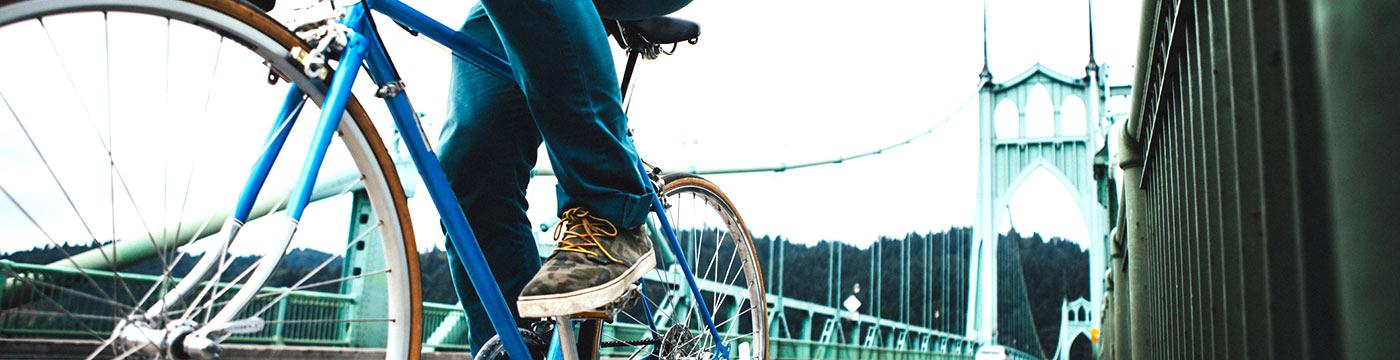
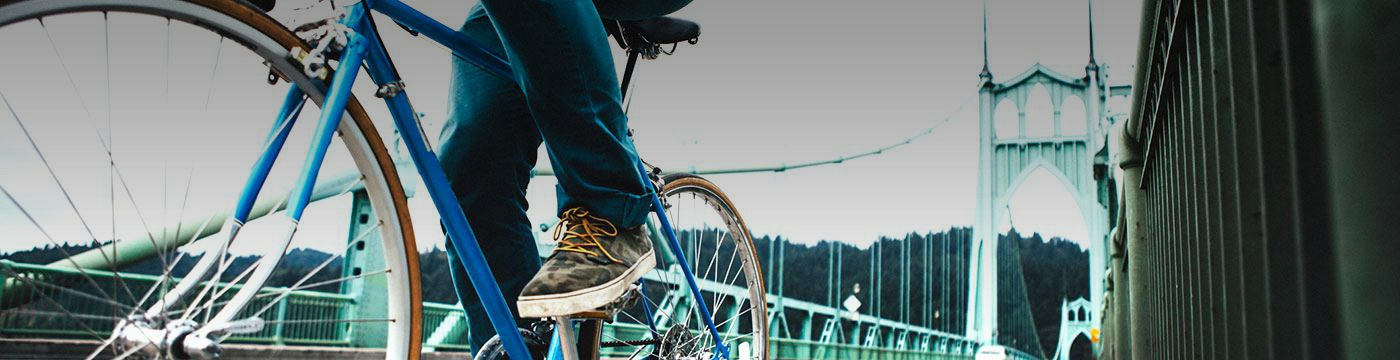
add fonts for main-photo and body, and add margin to ul and li

diff --git a/src/app/main-photo/main-photo.component.css b/src/app/main-photo/main-photo.component.css
@@ -1,18 +1,22 @@
-
+* {
+  border: 1px solid red;
+}
 .bridge {
   background-image:url("./../../assets/img/bridge.jpg");
   width: 100%;
   height: 30vw;
-  -webkit-filter: contrast(.8)saturate(1.2);
-  background: linear-gradient(90, black, 150%);
-
+  -webkit-filter: contrast(1)saturate(1.5);
 }
 
-
-
-h2 {
+#rent {
   text-transform: uppercase;
   color: white;
+  font-size: 6vw;
+  font-weight: lighter;
+  position: absolute;
+  top: 1vh;
+  left: 20vw;
+  /* margin-top: 5vh; */
 }
 ul {
   list-style-type: none;
@@ -20,6 +24,11 @@ ul {
   flex-direction: row;
   justify-content: space-between;
   width: 50vw;
+  color: white;
+  text-transform: uppercase;
+  font-weight: bold;
+  position: relative;
+  top: 50%;
 }
 
 .search {
@@ -29,4 +38,8 @@ ul {
   justify-content: space-between;
   margin-left: 5vw;
   margin-right: 5vw;
+}
+
+li {
+  margin-left: 8%;
 }

diff --git a/src/app/header/header.component.ts b/src/app/header/header.component.ts
@@ -1,12 +1,13 @@
 import { Component, OnInit } from '@angular/core';
 
+
 @Component({
   selector: 'app-header',
   templateUrl: './header.component.html',
   styleUrls: ['./header.component.css']
 })
 export class HeaderComponent implements OnInit {
-  
+
   constructor() { }
 
   ngOnInit() {

diff --git a/src/index.html b/src/index.html
@@ -1,6 +1,7 @@
 <!doctype html>
 <html lang="en">
 <head>
+  <link href="https://fonts.googleapis.com/css?family=Amatic+SC|Muli" rel="stylesheet">
   <meta charset="utf-8">
   <title>CloneAngular</title>
   <base href="/">

diff --git a/src/app/header/header.component.html b/src/app/header/header.component.html
@@ -1,5 +1,5 @@
 <div class="header">
   <p>  Menu <p>
-  <h2> Apartment.com </h2>
+  <img id="logo" src="/Users/Guest/desktop/clone-angular/src/assets/img/logo.png" alt="logo">
   <p>  Sign In / Sign Out </p>
 </div>

diff --git a/src/app/main-photo/main-photo.component.html b/src/app/main-photo/main-photo.component.html
@@ -1,6 +1,6 @@
 <div class="bridge">
 
-  <h2>Rent a townhouse. Find your Home</h2>
+  <h2 id="rent">Rent a townhouse. Find your Home</h2>
   <ul class="tags">
     <li>all</li>
     <li>apartments</li>

diff --git a/src/styles.css b/src/styles.css
@@ -1,1 +1,7 @@
 /* You can add global styles to this file, and also import other style files */
+#rent {
+  font-family: 'Amatic SC', cursive;
+}
+body {
+  font-family: 'Muli', sans-serif;
+}

diff --git a/src/app/header/header.component.css b/src/app/header/header.component.css
@@ -5,5 +5,11 @@
 }
 h2 {
   margin: 10px;
-  
+  font-family: 'Amatic SC', cursive;
+
+}
+
+#logo {
+  width: 10pc;
+  height: 30vh;
 }
